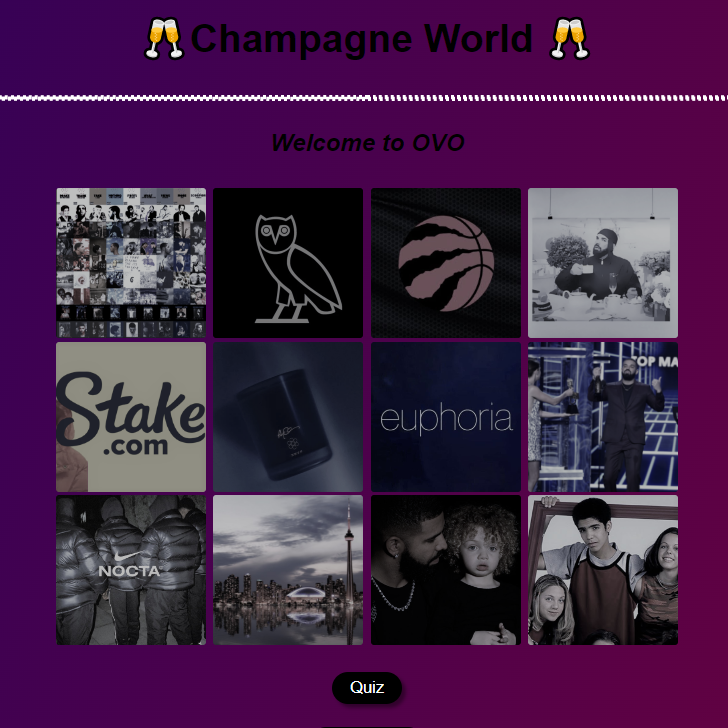
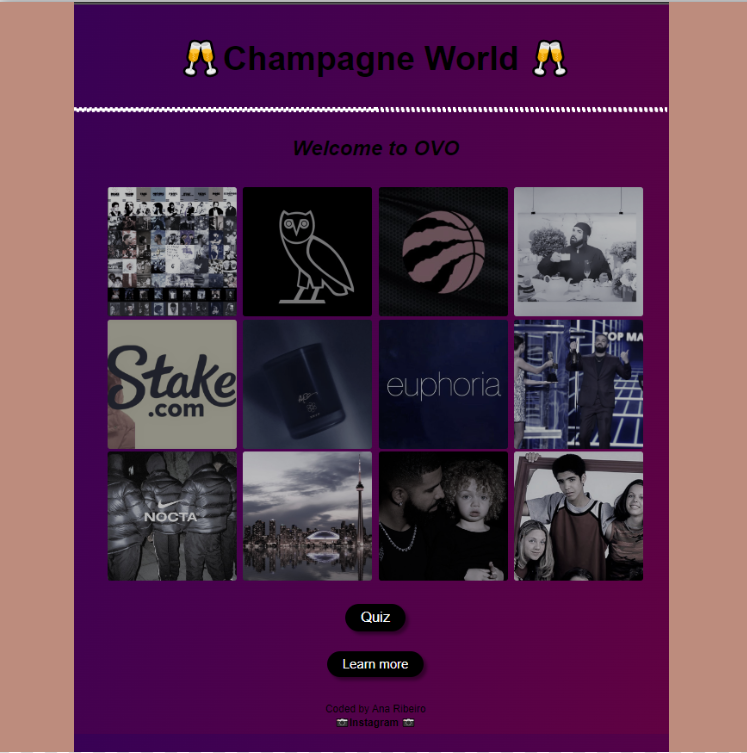
Updated Homepage CSS and content

diff --git a/index.html b/index.html
@@ -53,33 +53,41 @@
         </ul>
       </div>
     </nav>
-    <h2>&#128075; Hi I am</h2>
+    <h2>Hi, I am</h2>
     <h1>Ana Ribeiro</h1>
+    <img
+      src="/media/Ana.jpg"
+      alt="Ana"
+      class="img-fluid rounded-circle ana"
+      width="200px"
+    />
     <h3>🇵🇹 Front-end developer, based in Europe</h3>
     <div class="links mb-5">
-      <a href="/about.html#contact" class="contact-link">Contact Me</a>
+      <a href="/index.html#work" class="contact-link">My projects</a>
       <a href="/about.html" class="about-link">About Me</a>
     </div>
-    <div class="container mb-5">
+    <br />
+    <br />
+    <br />
+    <br />
+    <br />
+    <div class="container mb-5" id="work">
       <div class="row">
         <div class="col-md-6">
           <img
             src="/media/champagne.png"
             alt="champagne project"
-            class="img-fluid px-5 py-5 champagne rounded"
+            class="img-fluid img-thumbnail champagne rounded"
           />
         </div>
         <div class="col-md-6">
           <h2 class="text-left mt-0">Champagne World</h2>
           <p class="mb-5">
-            Lorem ipsum dolor sit amet consectetur adipisicing elit. Perferendis
-            quia, dignissimos nam ratione veniam quibusdam porro omnis quam vel
-            eos eveniet alias temporibus deserunt veritatis minima fugiat
-            explicabo eum dolore.
+            This is a simple project about the rapper Drake. It was my fisrt
+            project, and was asked to do it about something I liked! The project
+            uses HTML5, CSS3 and vanilla JavaScript.
           </p>
-          <a href="#" class="champagne-link px-3 py-3 rounded"
-            >Launch Champagne
-          </a>
+          <a href="#" class="champagne-link px-3 py-3 rounded">Learn More </a>
         </div>
       </div>
     </div>
@@ -88,48 +96,29 @@
         <div class="col-md-6">
           <h2 class="text-left mt-0">Weather App</h2>
           <p class="mb-5">
-            Lorem ipsum dolor sit amet consectetur adipisicing elit. Perferendis
-            quia, dignissimos nam ratione veniam quibusdam porro omnis quam vel
-            eos eveniet alias temporibus deserunt veritatis minima fugiat
-            explicabo eum dolore.
+            This project is a fully functioning weather app! It was my most
+            challenging project so far, and learned a lot from it! It was built
+            using HTML5, CSS3, vanilla JavaScript and API integration.
           </p>
           <a
             href="https://sweet-kataifi-bb1e18.netlify.app/"
             class="weather-link px-3 py-3 mb-3 rounded"
-            >Launch Weather App
+            >Learn More
           </a>
         </div>
         <div class="col-md-6">
           <img
             src="/media/weather.png"
             alt="weather app"
-            class="img-fluid py-5 px-1 weather rounded"
+            class="img-fluid img-thumbnail weather rounded"
           />
         </div>
       </div>
     </div>
-    <div class="container mb-5">
-      <div class="row">
-        <div class="col-md-6">
-          <img
-            src="/media/yogurt.png"
-            alt="yogurt app"
-            class="img-fluid px-5 py-5 yogurt rounded"
-          />
-        </div>
-        <div class="col-md-6">
-          <h2 class="text-left mt-0">Yogurt App</h2>
-          <p class="mb-5">
-            Lorem ipsum dolor sit amet consectetur adipisicing elit. Perferendis
-            quia, dignissimos nam ratione veniam quibusdam porro omnis quam vel
-            eos eveniet alias temporibus deserunt veritatis minima fugiat
-            explicabo eum dolore.
-          </p>
-          <a href="#" class="yogurt-link px-3 py-3 rounded"
-            >Launch Yogurt App
-          </a>
-        </div>
-      </div>
-    </div>
+    <p class="text-center">
+      <a class="git-link" href="https://github.com/catsbe1"
+        >Open source website </a
+      >coded by Ana Ribeiro
+    </p>
   </body>
 </html>

diff --git a/src/style.css b/src/style.css
@@ -1,7 +1,16 @@
 :root {
-  --primary-color: #6c63ff;
-  --secondary-color: #f5f2fe;
+  --primary-color: #bd8c7d;
+  --secondary-color: #d1bfa7;
+
   --box-shadow: 0 5px 10px rgba(0, 0, 0, 0.3);
+}
+body {
+  background: linear-gradient(
+    to top,
+    #dad4ec 0%,
+    #dad4ec 1%,
+    #f3e7e9 100%
+  ) !important;
 }
 
 h1,
@@ -11,12 +20,12 @@ h3 {
 }
 
 h1 {
-  font-size: 96px !important;
+  font-size: 80px !important;
 }
 
 h2 {
   font-size: 48px !important;
-  margin-top: 40px !important;
+  margin-top: 20px !important;
 }
 
 h3 {
@@ -29,7 +38,7 @@ p {
 .links {
   display: flex;
   justify-content: center;
-  margin-top: 40px;
+  margin-top: 20px;
 }
 
 .contact-link,
@@ -42,8 +51,7 @@ p {
 
 .contact-link,
 .champagne-link,
-.weather-link,
-.yogurt-link {
+.weather-link {
   color: white;
   background-color: var(--primary-color);
   box-shadow: var(--box-shadow);
@@ -55,11 +63,18 @@ p {
 }
 
 .champagne,
-.weather,
-.yogurt {
+.weather {
   background: var(--secondary-color);
 }
+.ana {
+  display: block;
+  margin: 0 auto;
+}
 
+.git-link {
+  text-decoration: none;
+  color: var(--primary-color);
+}
 #contact {
   text-align: center;
   margin-bottom: 70px;
@@ -75,13 +90,9 @@ p {
   text-decoration: underline;
 }
 
-@media (max-width: 768px) {
-  .weather {
-    margin-top: 35px;
-  }
-
-  .wtr-abt {
-    margin-top: 25px;
-    margin-bottom: 25px;
+@media (max-width: 767px) {
+  .weather,
+  .champagne {
+    display: none;
   }
 }
